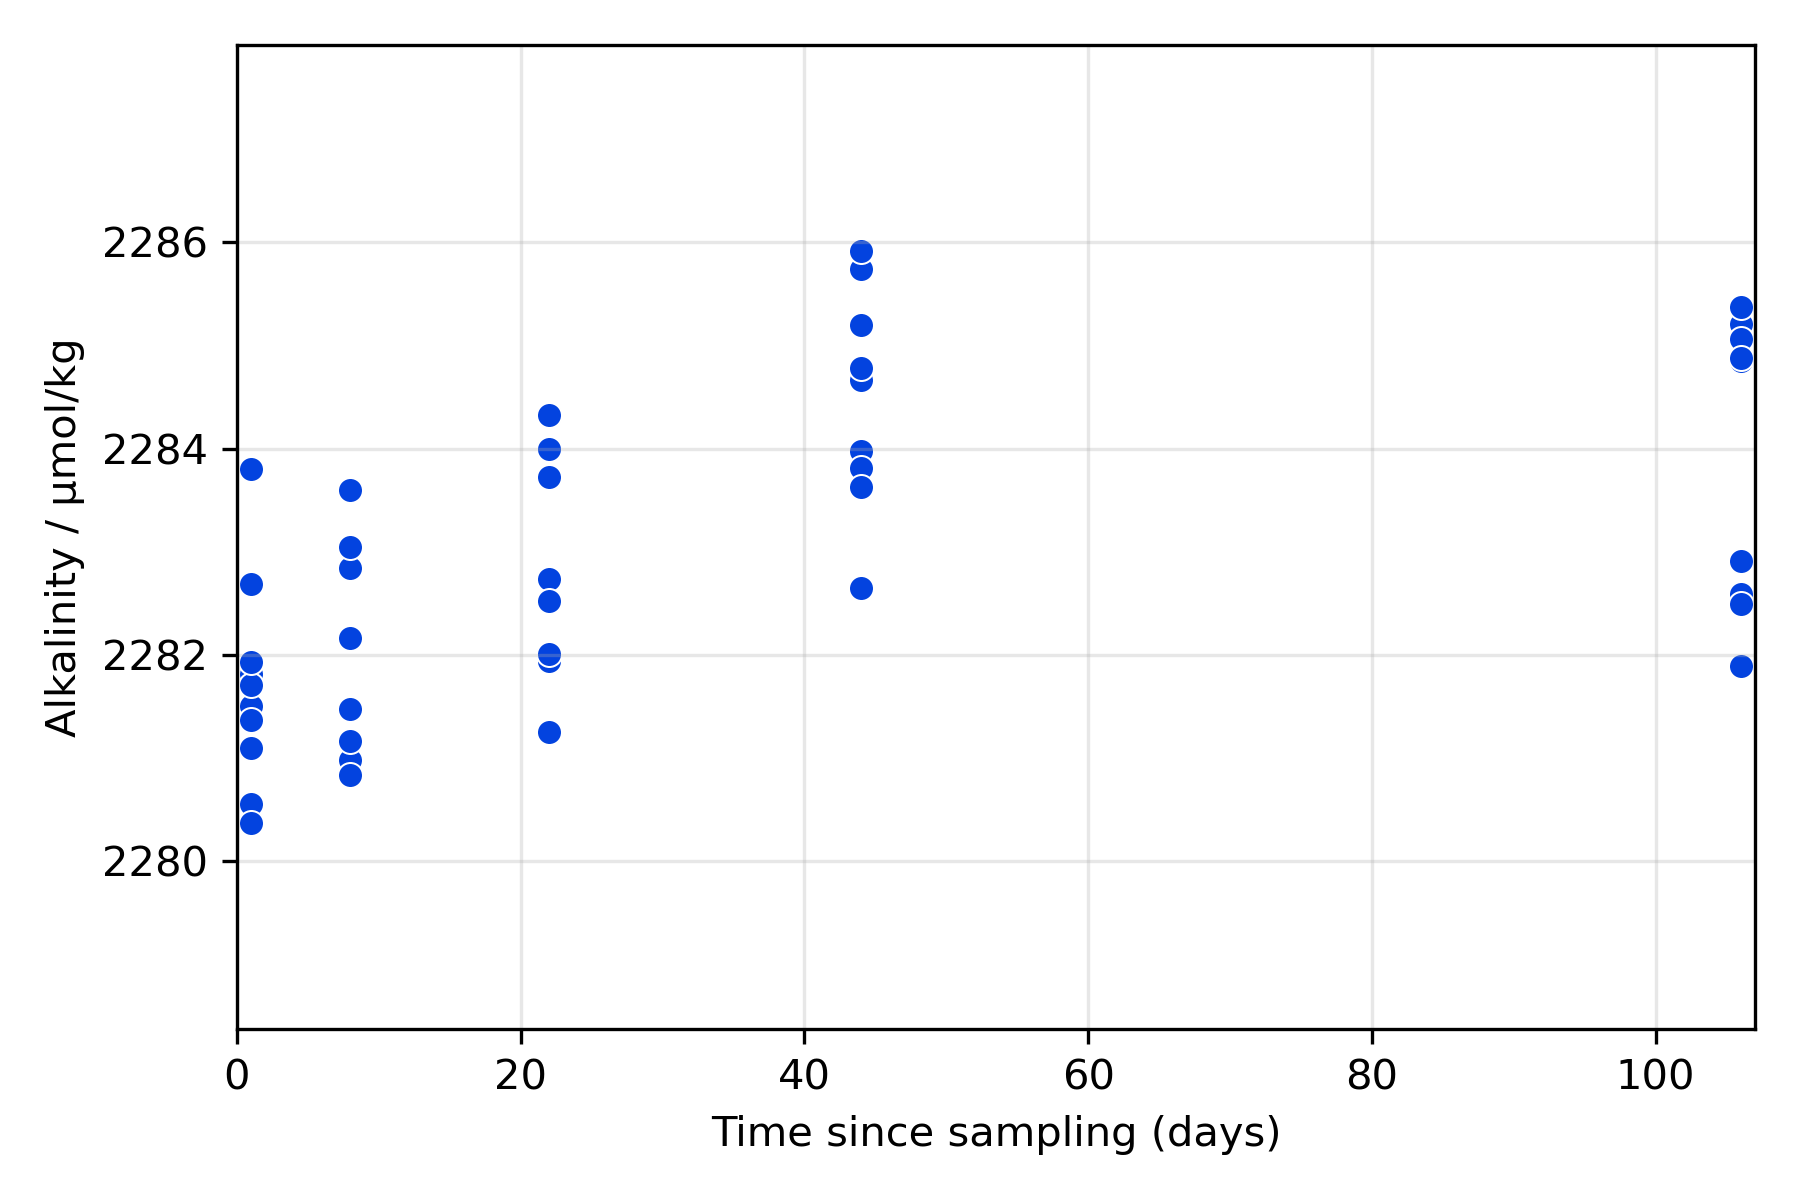
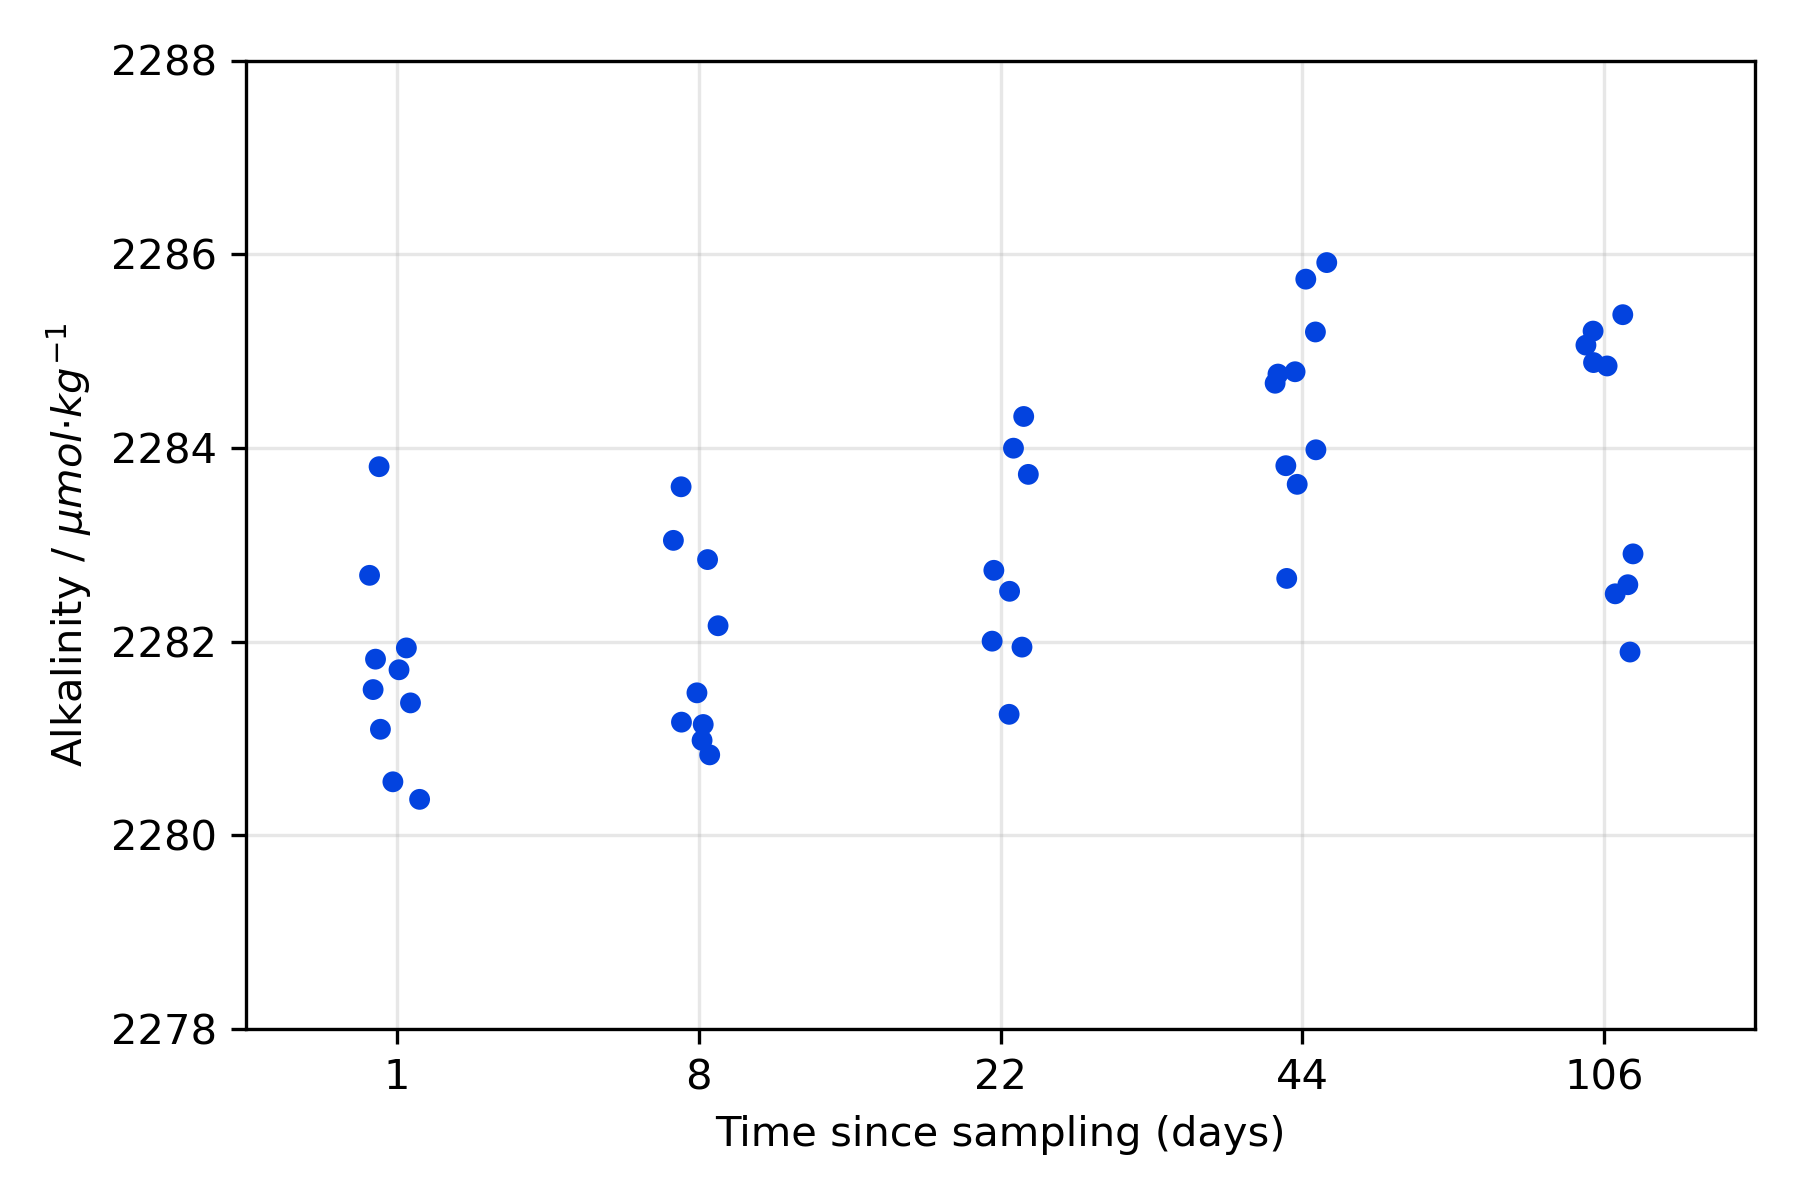
added jitter to alkalinity plot

diff --git a/vindta/storage_test_process.py b/vindta/storage_test_process.py
@@ -217,7 +217,9 @@ dbs['time_since_sampling'] = (dbs['analysis_datetime'] - start_date).dt.days
 # Statistics on all replicates
 L = (dbs['bottle'].str.startswith('S')) & (dbs['alkalinity'].notnull())
 SE = stats.mstats.sem(dbs['alkalinity'][L], axis=None, ddof=0)
-print('Standard error of measurement for all replicates = {}'.format(SE))
+print('Standard error for all replicates = {}'.format(SE))
+slope = stats.linregress(dbs[L]["analysis_batch"], dbs[L]["alkalinity"])[0]
+print("Slope for all replicates = {}".format(slope))
 
 # Create stats table per analysis batch
 dbs['group'] = 1
@@ -266,23 +268,22 @@ fig, ax = plt.subplots(dpi=300)
 
 # Linear regression
 L = (dbs['bottle'].str.startswith('S'))
-sns.scatterplot(y='alkalinity',
-                 x='time_since_sampling',
-                 data=dbs[L],
-                 color='xkcd:blue'
-                )
+sns.stripplot(y='alkalinity',
+              x='time_since_sampling',
+              data=dbs[L],
+              color='xkcd:blue',
+              jitter=True,
+              ax=ax
+)
 
 # Improve figure
-ymin = dbs['alkalinity'][L].min() - 2
-ymax = dbs['alkalinity'][L].max() + 2
-xmin = dbs['time_since_sampling'].min() - 1
-xmax = dbs['time_since_sampling'].max() + 1
-plt.xlim([xmin, xmax])
+ymin = round(dbs['alkalinity'][L].min() - 2)
+ymax = round(dbs['alkalinity'][L].max() + 2)
 plt.ylim([ymin, ymax])
 
 ax.grid(alpha=0.3)
 
-ax.set_ylabel('Alkalinity / μmol/kg')
+ax.set_ylabel('Alkalinity / $μmol⋅kg^{-1}$')
 ax.set_xlabel('Time since sampling (days)')
 
 plt.tight_layout()

diff --git a/airica/storage_test_process.py b/airica/storage_test_process.py
@@ -136,7 +136,7 @@ plt.ylim([ymin, ymax])
 ax.legend(["Rinsed", "Unrinsed"])
 ax.legend().set_title("")
 
-ax.set_ylabel('$TCO_{2}$ / $μmol • kg^{-1}$')
+ax.set_ylabel('$TCO_{2}$ / $μmol⋅kg^{-1}$')
 ax.set_xlabel('Time since sampling (days)')
 
 ax.grid(alpha=0.3)
